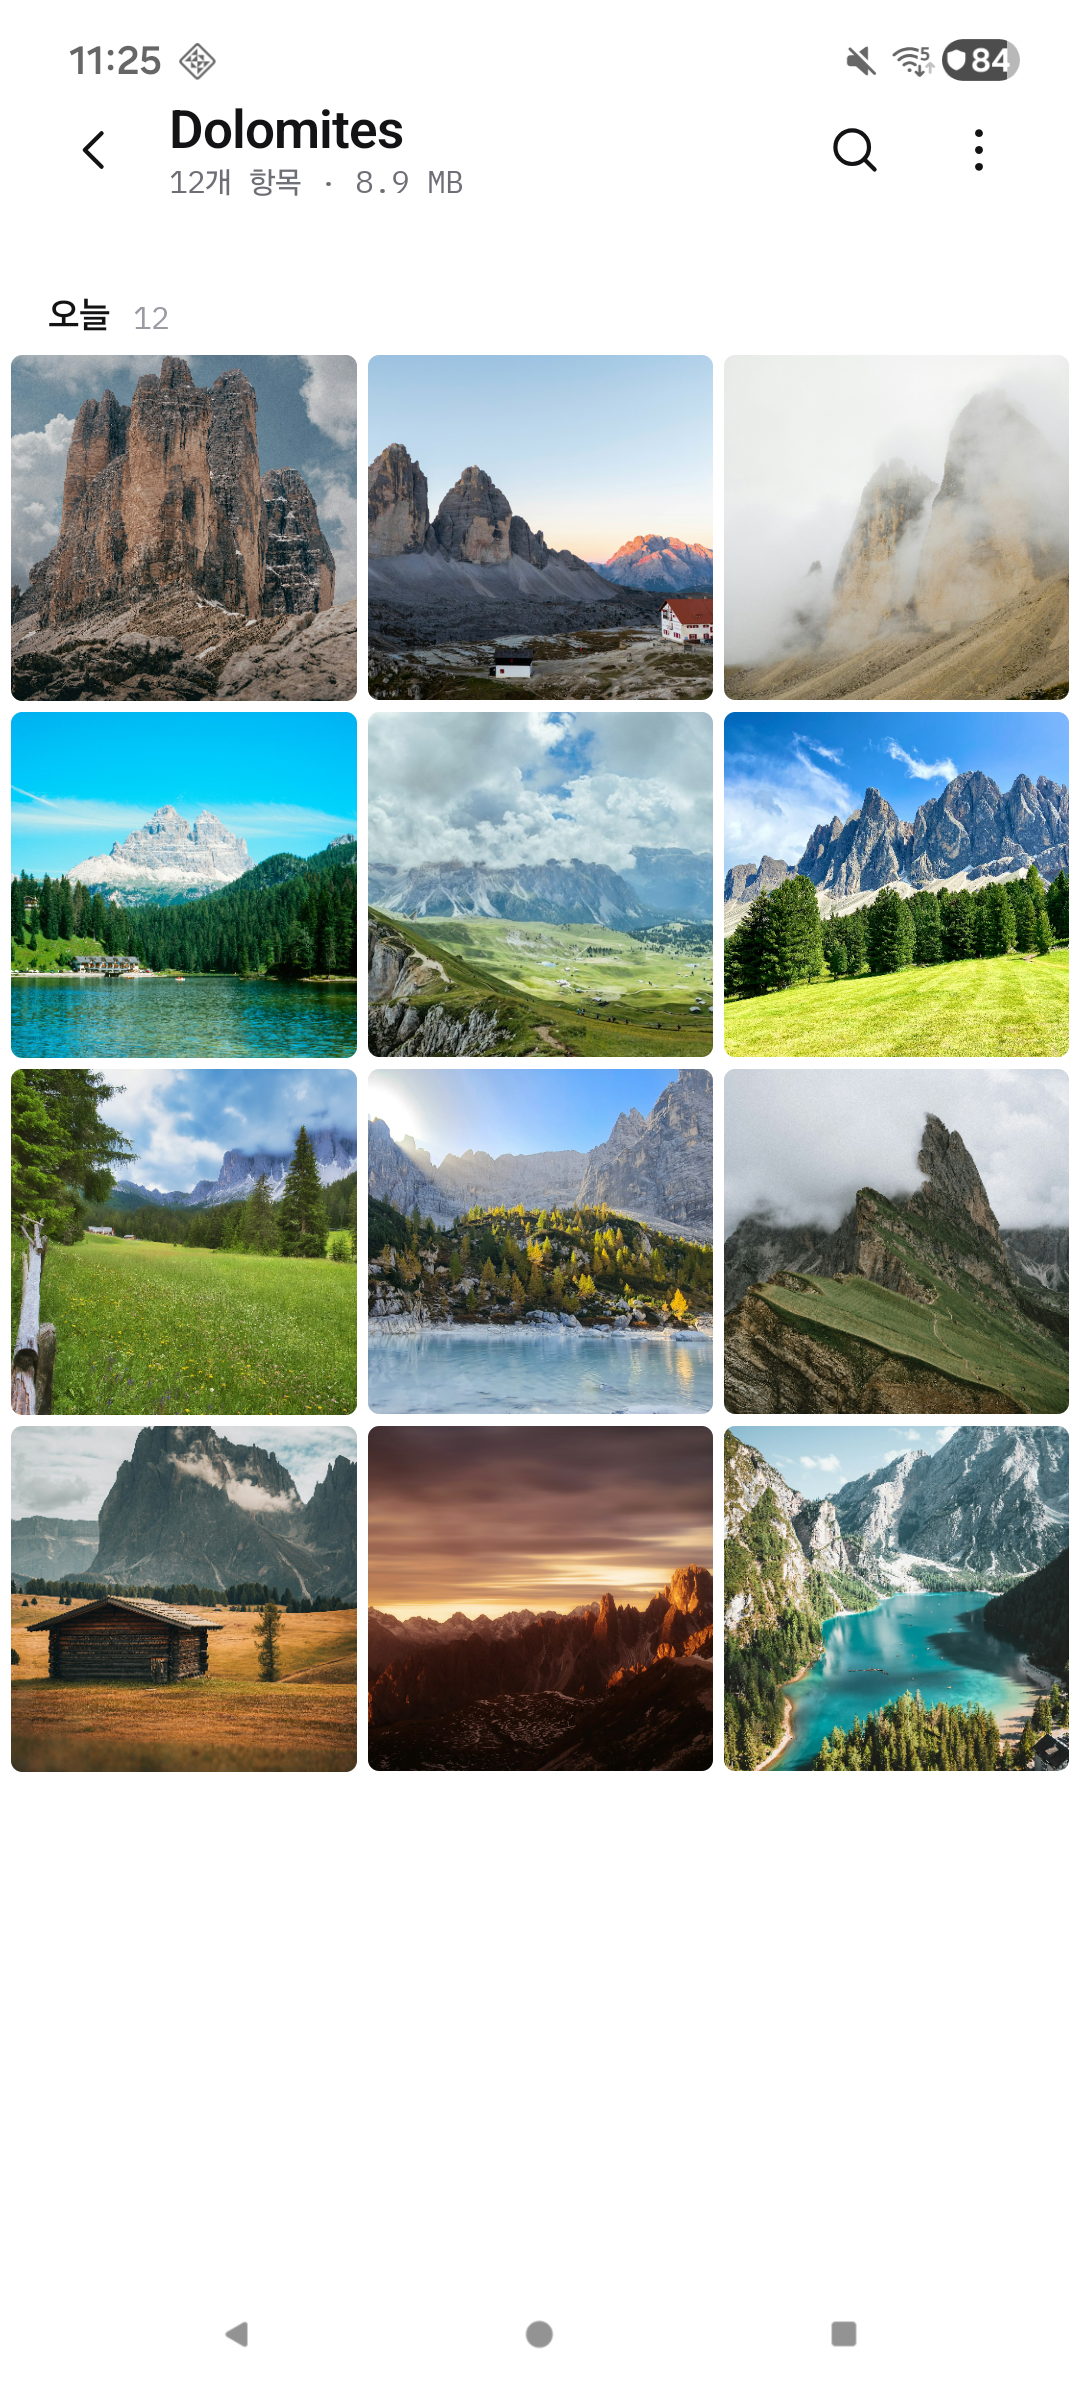
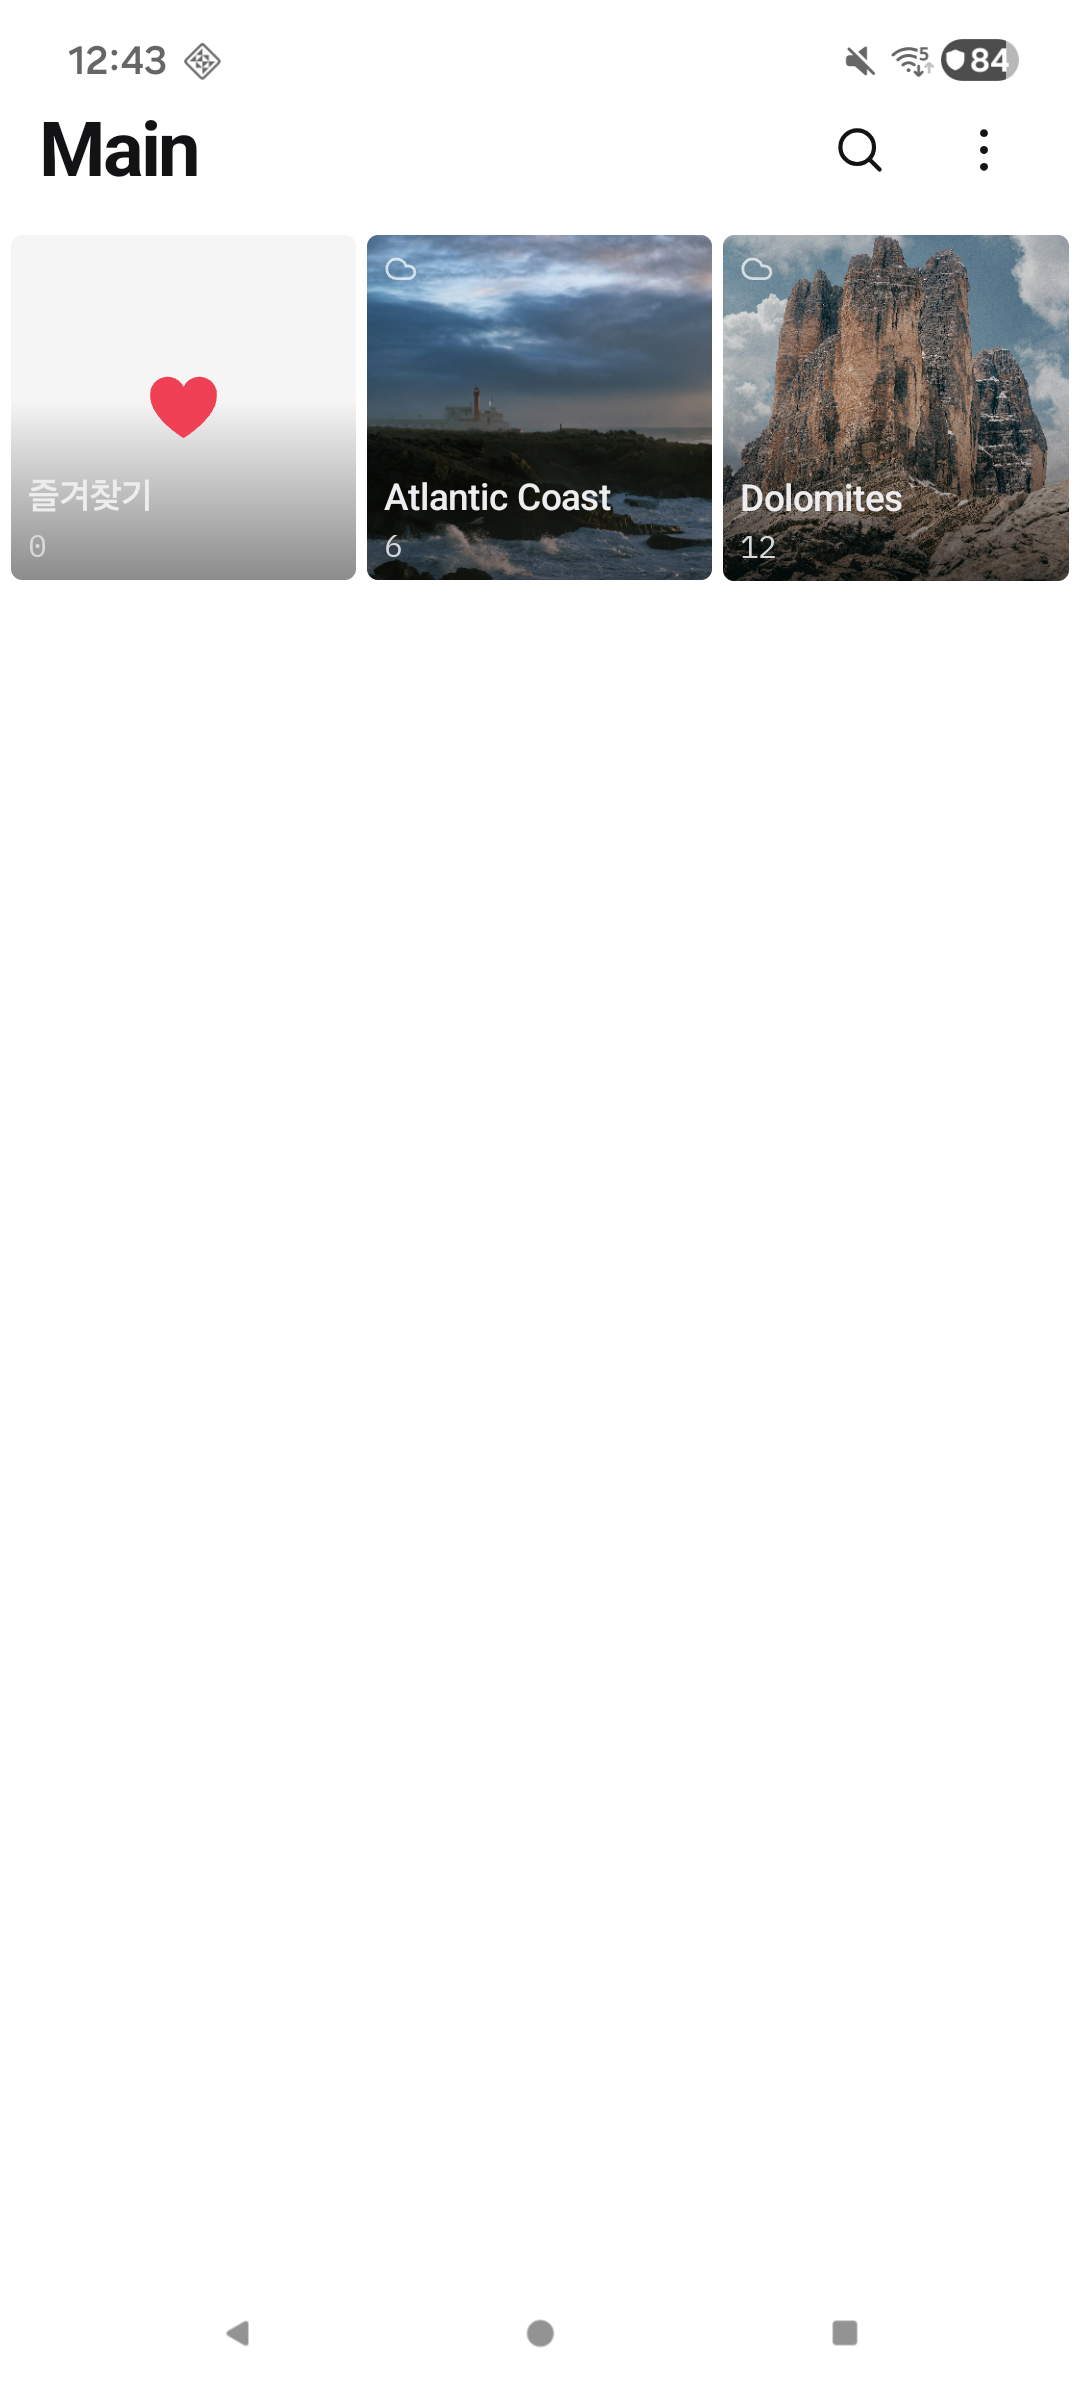
Show NAS cloud albums in README screenshots

diff --git a/README.md b/README.md
@@ -6,9 +6,9 @@ CloudiPix는 **WebDAV·FTP 폴더를 갤러리 앨범으로 연결하는 Android
 
 ## 클라우드 앨범과 동기화
 
-| 클라우드 앨범 | 원격 사진 뷰어 | 폴더 동기화 기록 |
+| 갤러리 폴더 목록 | 원격 사진 뷰어 | 폴더 동기화 설정 |
 | :---: | :---: | :---: |
-| <img src="screenshots/cloud-album.png" width="240" alt="WebDAV에서 불러온 Dolomites 앨범의 사진 격자" /> | <img src="screenshots/cloud-viewer.png" width="240" alt="원격 사진과 서버 경로를 함께 표시하는 뷰어" /> | <img src="screenshots/folder-sync.png" width="240" alt="Atlantic Coast 폴더의 자동 동기화와 사진 6장 다운로드 기록" /> |
+| <img src="screenshots/cloud-album.png" width="240" alt="갤러리 폴더 목록에서 클라우드 아이콘이 표시된 Atlantic Coast와 Dolomites 앨범" /> | <img src="screenshots/cloud-viewer.png" width="240" alt="원격 사진과 NAS의 Dolomites 경로를 보여주는 뷰어" /> | <img src="screenshots/folder-sync.png" width="240" alt="NAS의 Atlantic Coast 폴더에 대한 동기화 저장 위치 설정" /> |
 
 - 연결한 폴더의 사진을 갤러리에서 탐색하고 뷰어에서 서버 원본을 엽니다.
 - 폴더별로 동기화를 켜고 기기 저장 위치를 정할 수 있습니다. 동기화 기록에서 업로드, 다운로드, 삭제 결과를 확인합니다.
